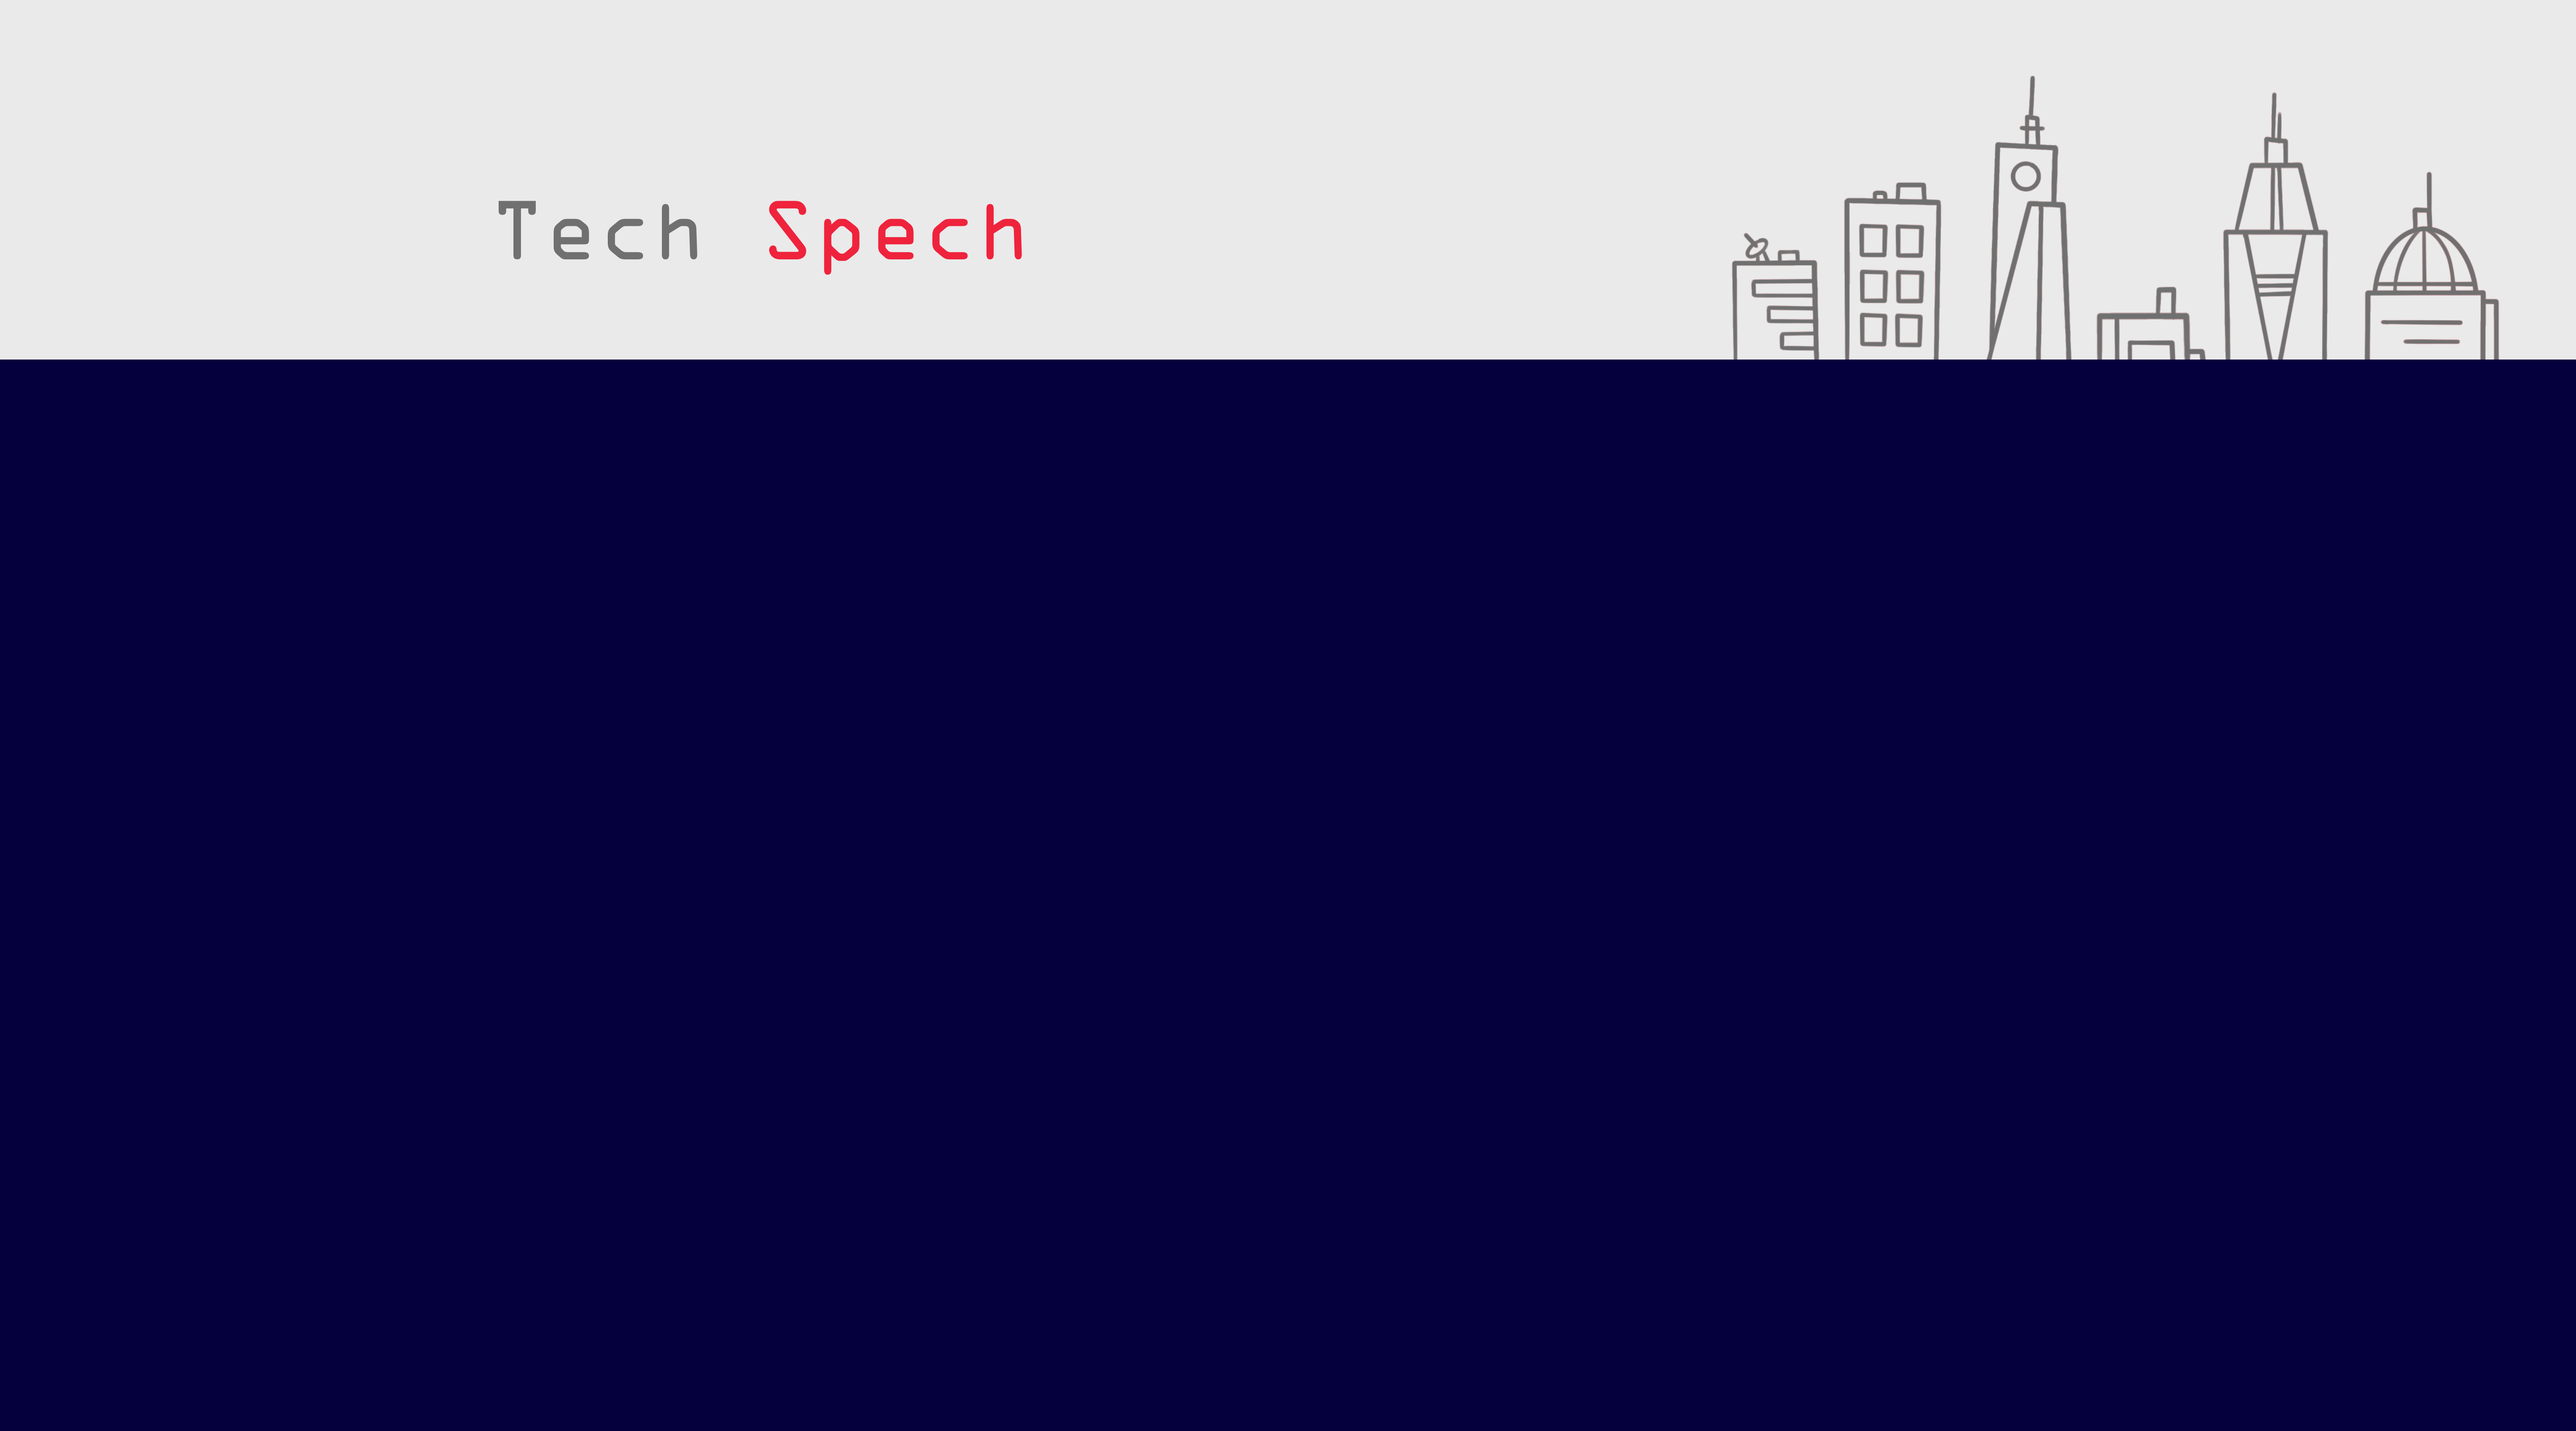
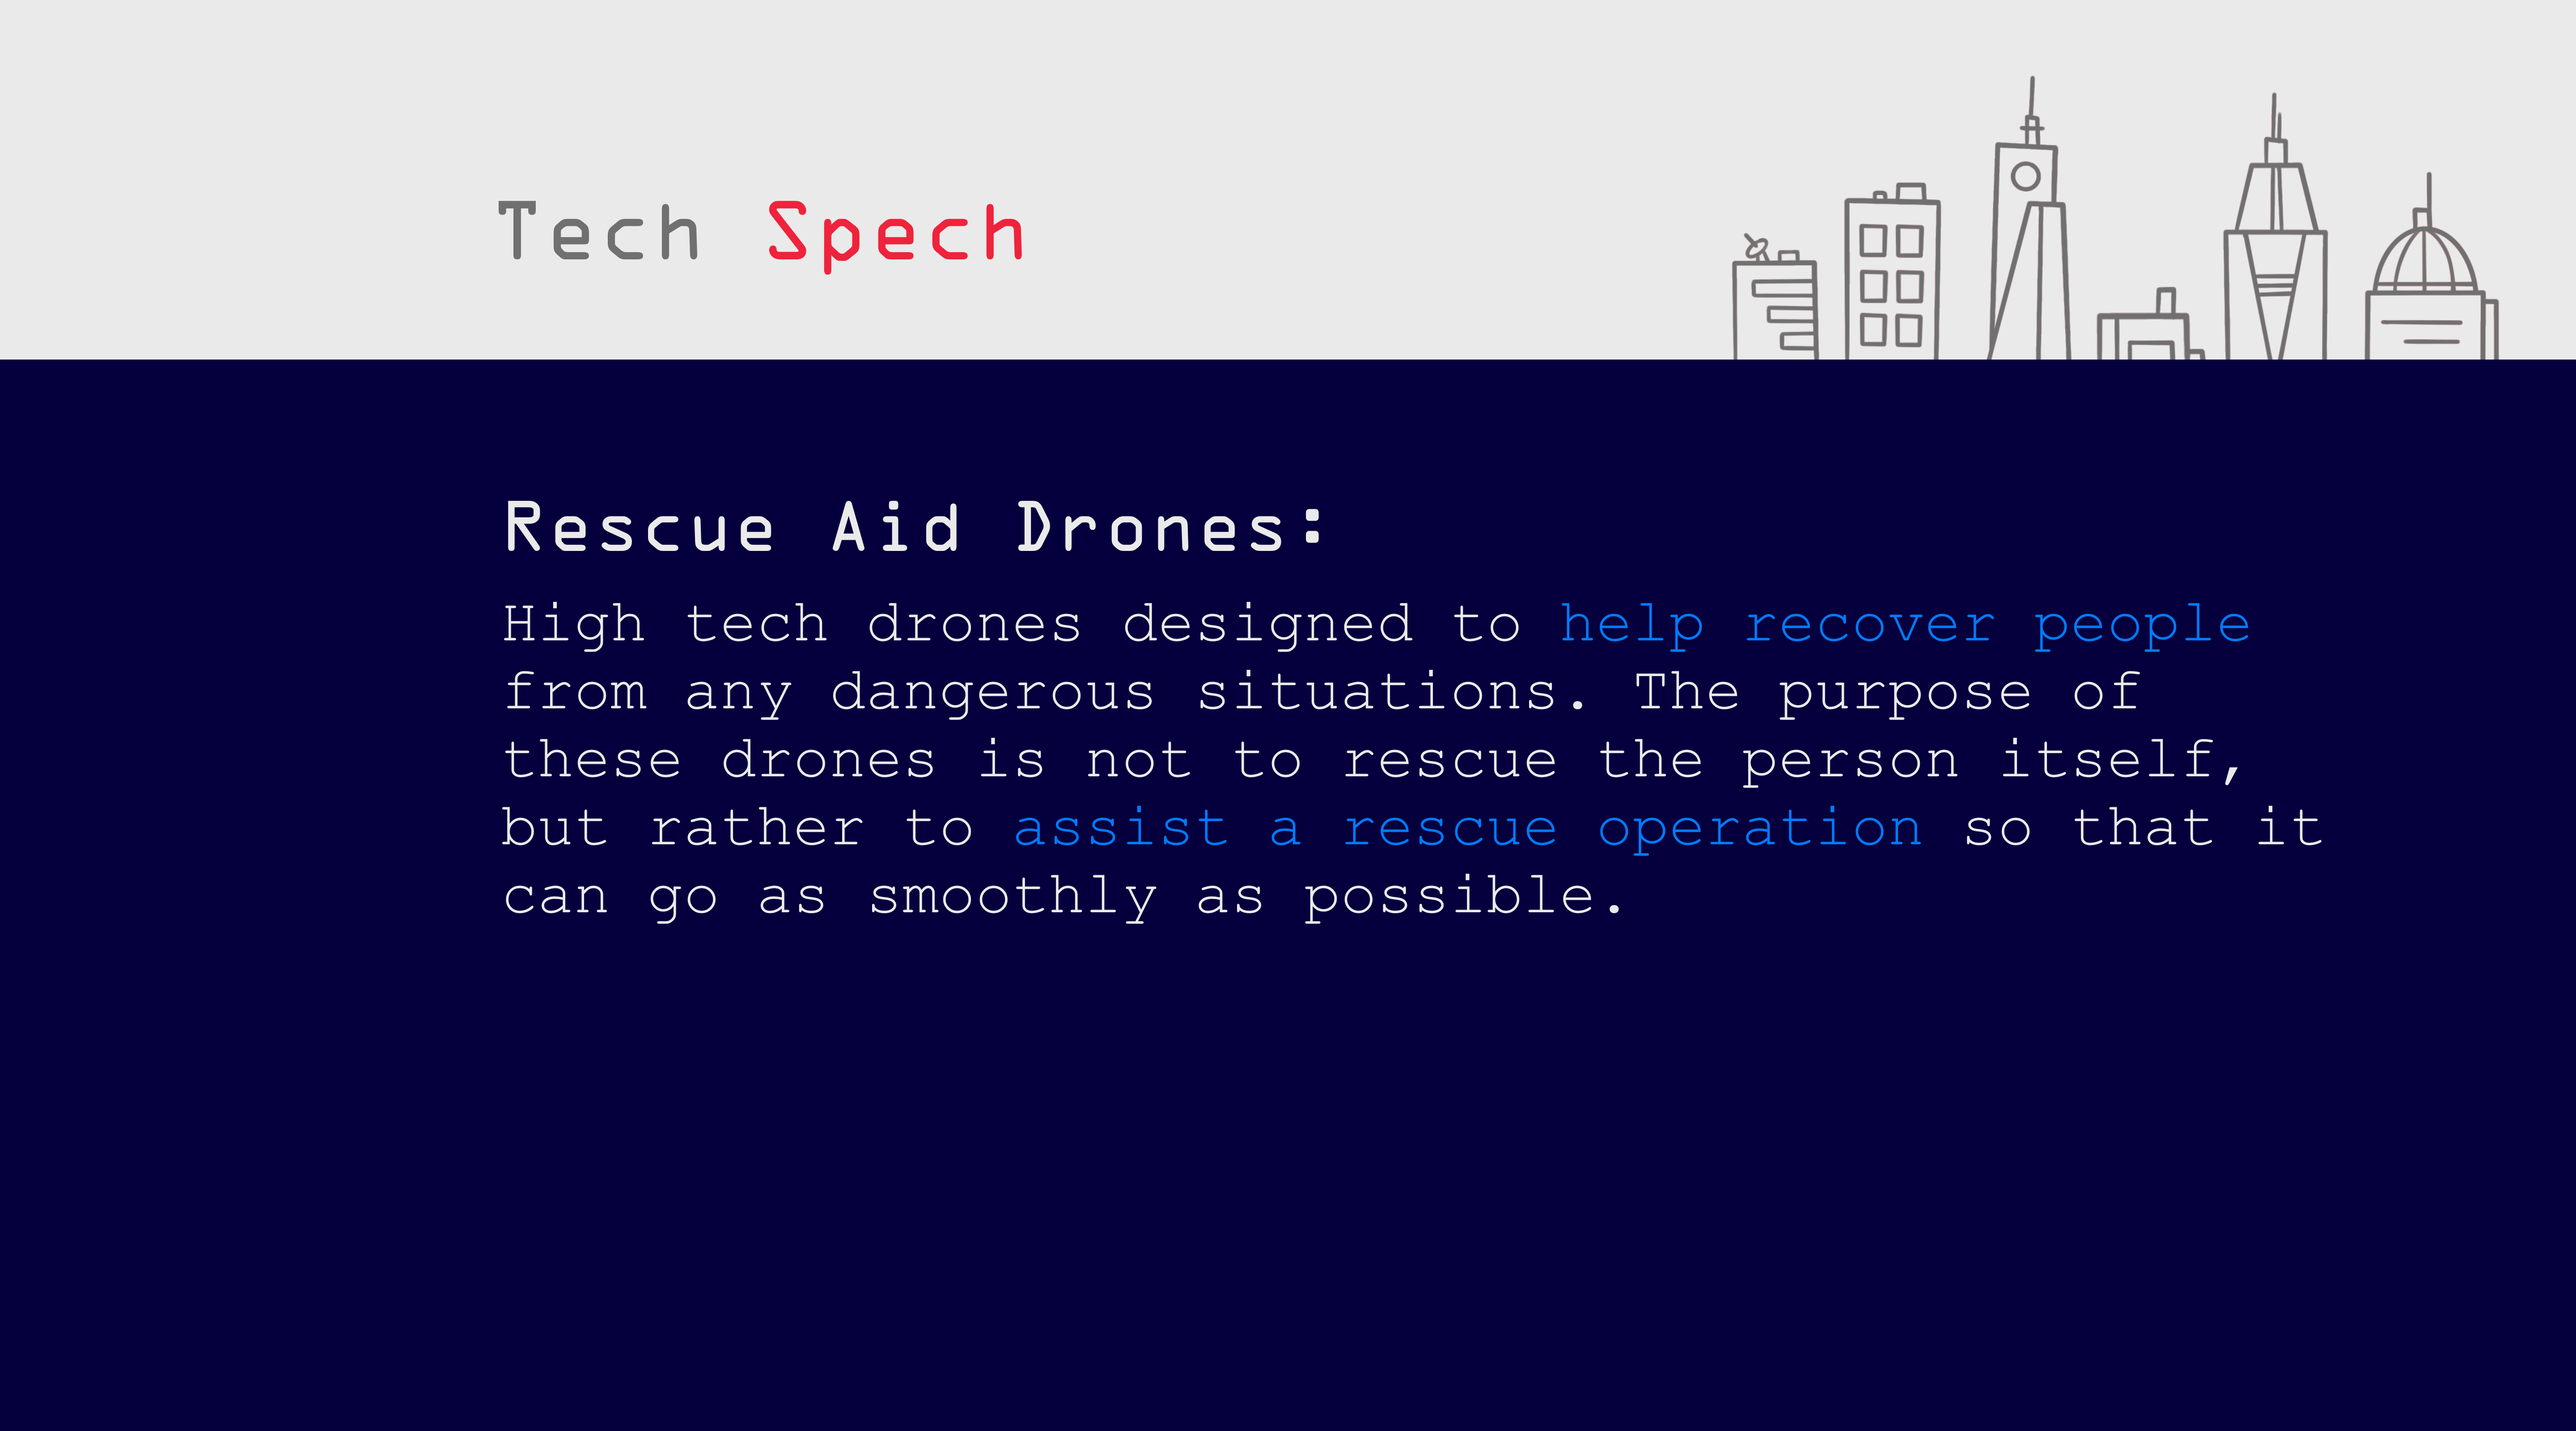
Final version

diff --git a/sketch.js b/sketch.js
@@ -144,7 +144,7 @@ function drawSplash() {
 }
 
 function drawDescription() {
-  writeTextInBox("Rescue Aid Drones:", "Drones designed to help in the recovery of people from any dangerous situations that require immediate evacuation/rescue. The purpose of these drones is not to rescue the person itself, but rather to assist a rescue operation so that it can go as smoothly as possible.")
+  //writeTextInBox("Rescue Aid Drones:", "Drones designed to help in the recovery of people from any dangerous situations that require immediate evacuation/rescue. The purpose of these drones is not to rescue the person itself, but rather to assist a rescue operation so that it can go as smoothly as possible.")
 }
 
 function addPlayers() {
@@ -219,7 +219,7 @@ function setupClickables() {
     clickables[i].onPress = clickableButtonPressed;
     clickables[i].strokeWeight = 0;
     clickables[i].textSize = 24;
-    clickables[i].width = 250;
+    clickables[i].width = 320;
     clickables[i].textFont = bodyFont;
     clickables[i].noFill = true;
   }
@@ -246,9 +246,9 @@ function setupClickables() {
 
 // tint when mouse is over
 clickableButtonHover = function () {
-  // if (this.id === 0) {
-  //   this.textColor = "#007BFF"
-  // }
+  if (this.id === 0) {
+    this.textColor = "#007BFF"
+  }
 
   if (this.y > 697) {
     this.y -= animateSpeed;
